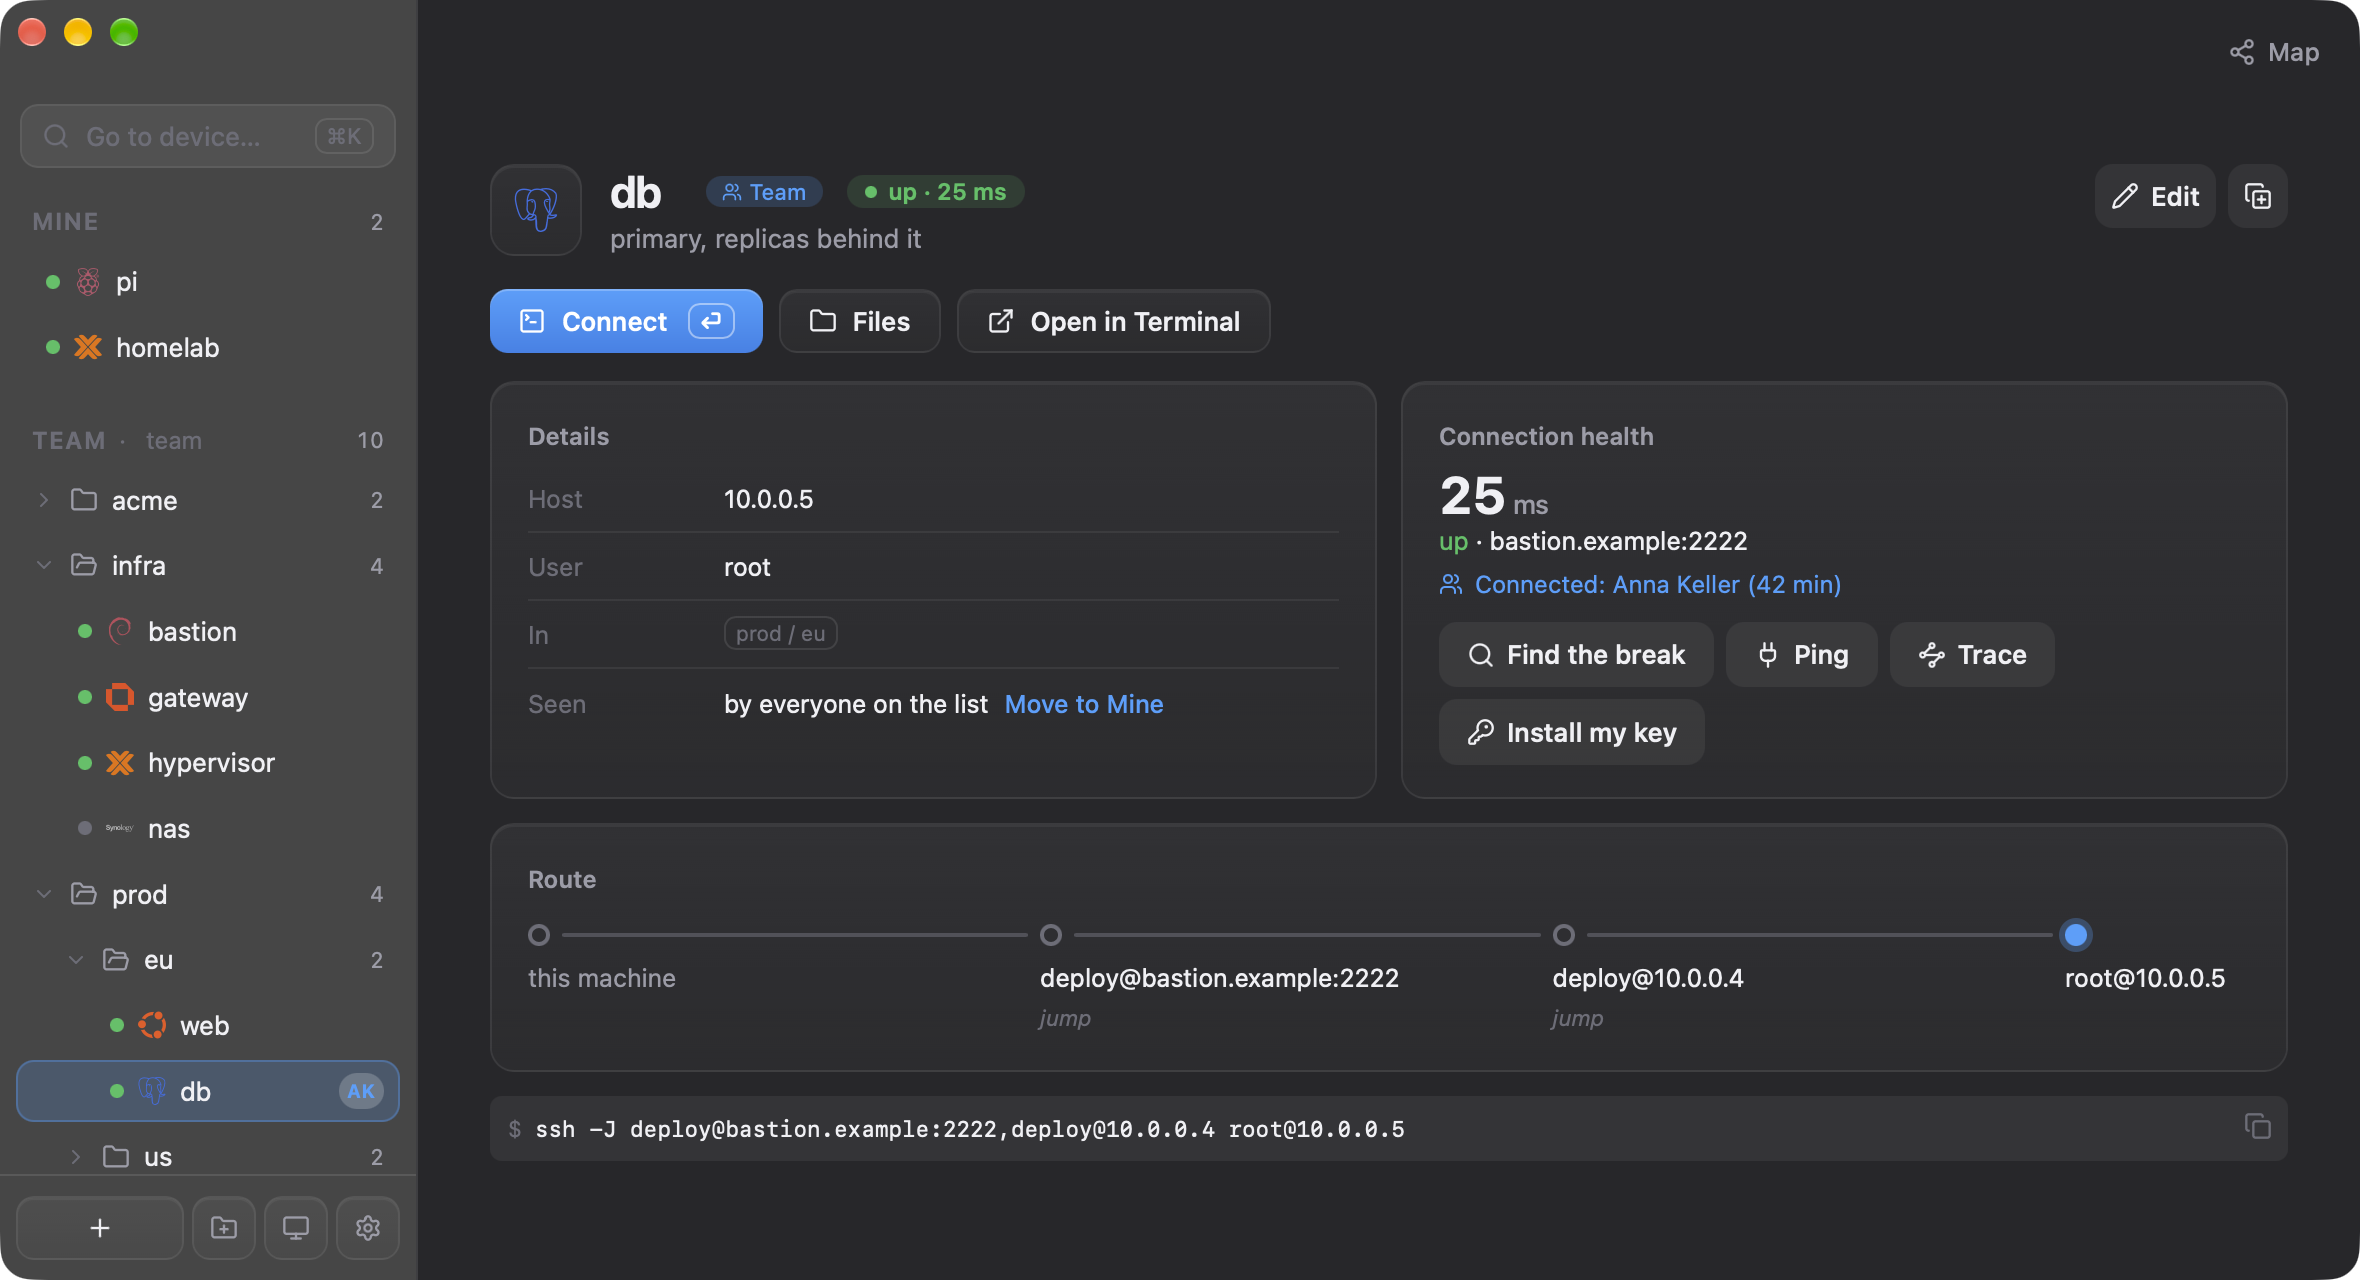
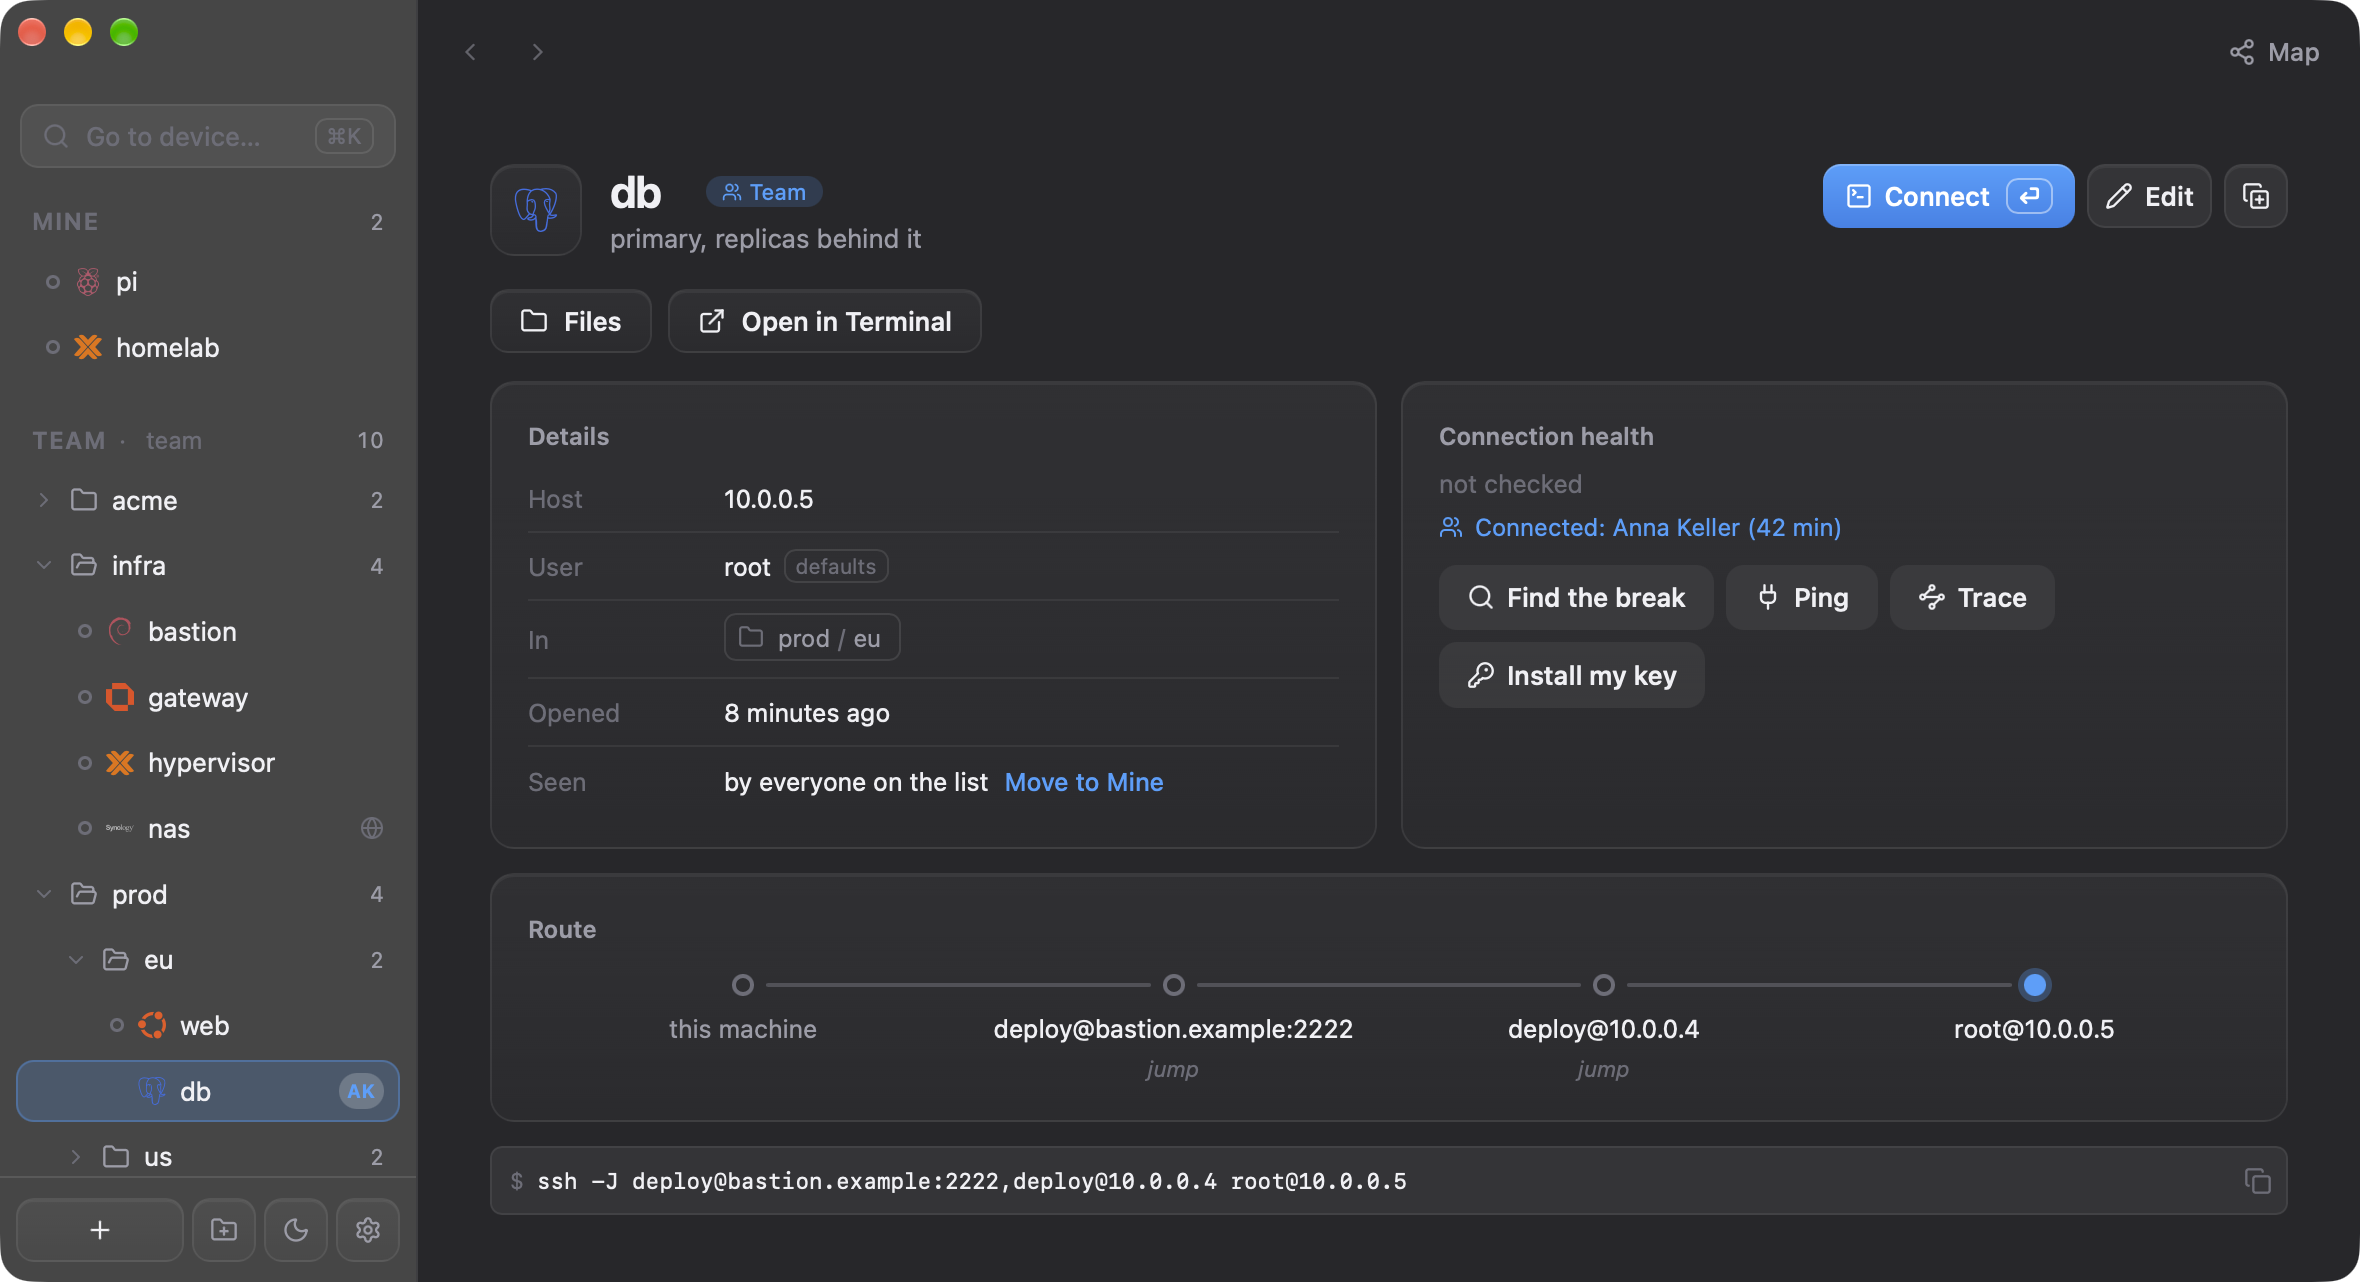
readme: shorter and current, no semicolons, and screenshots of the window as it is now, since the old ones showed Connect under the name

diff --git a/README.md b/README.md
@@ -36,22 +36,21 @@
 
 ---
 
-Your machines live in one file you can read, hand-edit and keep in a repo: hostnames,
-folders and jump chains, never a credential, so it goes on the team drive as it is. The
-window opens them as tabs under a folder tree. Your `ssh` agent and `~/.ssh/config`
-hold the rest.
+Your machines live in one TOML file you can read, hand-edit and keep in a repo:
+hostnames, folders and jump chains, never a credential. The window opens them as tabs.
+Your `ssh` agent and `~/.ssh/config` do the rest.
 
 ## Features
 
 | | |
 | --- | --- |
-| **Sessions in tabs** | Your system `ssh` on a real pty: agent, `~/.ssh/config` and host-key prompts just work. A local shell too. |
-| **Remote desktop** | RDP decoded in-app (IronRDP, pure Rust) via the graphics pipeline, H.264 on the OS decoder, files on the clipboard. VNC the same way. Or hand off to your own client. |
+| **Sessions in tabs** | Your system `ssh` on a real pty, so agent, `~/.ssh/config` and host-key prompts just work. A local shell too. |
+| **Remote desktop** | RDP and VNC decoded in-app in pure Rust, H.264 on the OS decoder. Or hand off to your own client. |
 | **Web UIs and files** | A device's admin page in a tab beside its shell. Browse, upload and edit files over `sftp`. |
-| **Jump chains** | `db → web → bastion` becomes one `ssh -J`, and "Find the break" names the hop that stopped answering. |
+| **Jump chains** | `db → web → bastion` becomes one `ssh -J`. "Find the break" names the hop that stopped answering. |
 | **Mine and Team** | Your devices beside the team's shared list, on a drive you already have. No server, no account. |
 | **Team host keys** | A first connect is checked against the key a colleague already trusted. |
-| **Broadcast and snippets** | Type into many shells at once. Snippets fill in `{host}`, ask for a `{?}` blank, and never press Enter. |
+| **Broadcast and snippets** | Type into many shells at once. Snippets fill in `{host}`, ask for `{?}`, and never press Enter. |
 | **Import** | `~/.ssh/config` or a Royal TS `.rtsz`. Passwords never come across. |
 
 ## Install
@@ -64,9 +63,7 @@ hold the rest.
 | Debian / Ubuntu | [patchbay_amd64.deb](https://github.com/pyvnoaim/patchbay/releases/latest/download/patchbay_amd64.deb) |
 | Linux, any | [patchbay_amd64.AppImage](https://github.com/pyvnoaim/patchbay/releases/latest/download/patchbay_amd64.AppImage) |
 
-Every install updates itself from then on.
-
-Or from a terminal:
+It updates itself from then on. Or from a terminal:
 
 ```sh
 # macOS, Apple Silicon
@@ -85,29 +82,29 @@ mkdir -p ~/.local/bin && curl -fsSLo ~/.local/bin/patchbay https://github.com/py
 <details>
 <summary>First launch, requirements and platform notes</summary>
 
-The app isn't notarized, so a `.dmg` from the browser is refused on first launch: open
-it once, then System Settings → Privacy & Security → Open Anyway. The `curl` line above
-skips that, because a browser marks what it downloads as quarantined and `curl` doesn't.
+**macOS.** The app isn't notarized, so a `.dmg` from the browser is refused on first
+launch. Open it once, then System Settings → Privacy & Security → Open Anyway. The
+`curl` line skips this: `curl` doesn't mark downloads as quarantined.
 
-You need an `ssh` on your PATH. On Windows that means the OpenSSH Client, which ships
-with Windows 10/11. If it's missing, enable it under Settings → Apps → Optional
-Features. Its agent is a service that is off by default, so keys with a passphrase ask
-for it on every connection until you turn it on, once, in an administrator PowerShell:
+**Windows.** You need the OpenSSH Client, which ships with Windows 10/11 (Settings →
+Apps → Optional Features if missing). Its agent is off by default, so a key with a
+passphrase asks on every connection. Turn it on once, in an administrator PowerShell:
 
 ```powershell
-Set-Service ssh-agent -StartupType Automatic; Start-Service ssh-agent; ssh-add
+Set-Service ssh-agent -StartupType Automatic
+Start-Service ssh-agent
+ssh-add
 ```
 
-The `.deb` wants Ubuntu 22.04 or newer, or anything else with `libwebkit2gtk-4.1`. The
-AppImage carries its own. "Open in Terminal" uses `$TERMINAL` if it is set, otherwise
-the first of gnome-terminal, konsole, alacritty, kitty, foot or xterm it finds.
+**Linux.** The `.deb` wants Ubuntu 22.04+ or `libwebkit2gtk-4.1`. The AppImage carries
+its own. "Open in Terminal" uses `$TERMINAL`, else the first of gnome-terminal, konsole,
+alacritty, kitty, foot or xterm.
 
 </details>
 
-Already have a list? An empty window offers the hosts it finds in `~/.ssh/config`, and
-Settings ▸ Import reads that or a Royal TS `.rtsz` document. Either way you see what it
-found with tick boxes, and nothing is written until you tick.
-
+Already have a list? An empty window offers the hosts in `~/.ssh/config`, and Settings ▸
+Import reads that or a Royal TS `.rtsz`. You tick what to take. Nothing is written
+before that.
 
 ## Config
 
@@ -136,16 +133,15 @@ desc = "main web box"
 note = "change window is Tuesday 22:00, ask ops before touching bastion"
 ```
 
-`jump` is walked until it runs out, so a chain becomes one `ssh -J` list. A loop is an
-error, not a hang. Nothing in the file is executed as written: the most it produces is
-an `ssh` command line, shown before it runs.
+A `jump` chain becomes one `ssh -J` list. A loop is an error, not a hang. Nothing in the
+file is executed as written: the most it produces is an `ssh` command line, shown before
+it runs.
 
 ## Folders and web UIs
 
-`prod/eu/web` nests in the sidebar, and `folders` is a list, so a device can sit in
-several branches. A device is reached by `ssh` (on by default), `rdp = <port>`,
-`vnc = <port>`, `telnet = <port>`, `serial = "/dev/…"` or `url`. That is what Enter and
-a double-click open.
+`prod/eu/web` nests in the sidebar. `folders` is a list, so a device can sit in several
+branches. A device opens by `ssh` (default), `rdp = <port>`, `vnc = <port>`,
+`telnet = <port>`, `serial = "/dev/…"` or `url`.
 
 ```toml
 [jack.acme-nas]
@@ -161,99 +157,84 @@ ssh  = false
 folders = ["acme/prod"]
 ```
 
-Appliances reached by IP have certificates naming something else. patchbay says which
-certificate and why, and on macOS and Windows can add it to the system trust store like
-a browser's **Always trust**. Linux has no single store the webview reads, so there a
-self-signed device is one for your browser. Plain `http` works on your own network only.
+A device reached by IP has a certificate naming something else. patchbay shows which
+and why, and on macOS and Windows can add it to the system trust store, like a browser's
+**Always trust**. Linux has no single store the webview reads, so a self-signed device
+opens in your browser there. Plain `http` works on your own network only.
 
 ## A team
 
 Put the file in a folder you already share and point Settings ▸ Team at it. Colleagues
-point at the same path. Everyone sees the same devices and folder notes, with no server
-in between, and since the file holds no credentials, sharing it shares hostnames only.
+point at the same path. No server in between, and the file holds no credentials, so
+sharing it shares hostnames only.
 
-- **Mine stays yours.** Your own devices show beside the team's as **Mine**. **Share
-  with Team** (on the page or right-click) moves one across, undoably. `[settings]` and
-  colours stay in your file. `[defaults]` goes with the list, so a `user` or `key` there
-  is a _shared_ account (`~` expands per machine). Personal accounts go in
-  `~/.ssh/config`.
-- **Who can edit** is whoever can write the file, and they can repoint `prod-db`: the
-  same trust a shared Royal document extends, minus the passwords. A save over someone
-  else's newer change is refused once and the list reloads. A share that is away keeps
-  the list on screen and refuses saves until it's back.
-- **Synced folders** (OneDrive, Dropbox) suit a team that mostly reads: two saves in the
-  same minute make a conflicted copy, which the window names and never merges. On
-  Windows a save can be refused while a sync client holds the file. The next one lands.
+- **Mine stays yours.** Your devices show beside the team's as **Mine**. **Share with
+  Team** moves one across, undoably. `[settings]` and colours stay in your file.
+  `[defaults]` goes with the list, so a `user` or `key` there is a _shared_ account.
+  Personal accounts go in `~/.ssh/config`.
+- **Who can edit** is whoever can write the file. A save over a colleague's newer change
+  is refused once and the list reloads. A share that is away keeps the list on screen
+  and refuses saves until it's back.
+- **Who is on** a device shows on its page, with no server: a small file per copy beside
+  the shared list.
+- **Synced folders** (OneDrive, Dropbox) suit a team that mostly reads. Two saves in the
+  same minute make a conflicted copy, which the window names and never merges.
 
 ## Files
 
 **Files** on a device's page, or right-click ▸ **Browse files**: the system `sftp` over
-your agent, config and jump chain. Double-click a folder to enter it or a file to
-download it, drop files to upload, right-click to rename, delete, or **Edit here** (saving
-puts it straight back). Listings share one ssh session, so only the first authenticates.
-Windows' ssh can't share, so there every listing authenticates and a password-only
-device can't be browsed.
+your agent, config and jump chain. Double-click to enter a folder or download a file,
+drop files to upload, right-click to rename, delete or **Edit here** (saving puts it
+back). Listings share one ssh session, so only the first authenticates. Windows' ssh
+can't share, so there a password-only device can't be browsed.
 
 ## The rest of your machine
 
-- **`ssh web-01` anywhere.** Settings ▸ Devices writes your devices, or the team's, to
-  `~/.ssh/patchbay.conf` with one `Include` line in `~/.ssh/config`, jump chains as
-  `ProxyJump`, so `scp`, `rsync`, Ansible and VS Code Remote work too. A name you
-  already define is left alone. Turning it off removes the line and the file.
+- **`ssh web-01` anywhere.** Settings ▸ Devices writes your devices to
+  `~/.ssh/patchbay.conf` with one `Include` line in `~/.ssh/config`, so `scp`, `rsync`,
+  Ansible and VS Code Remote work too. A name you already define is left alone.
 - **`patchbay://web-01`** in a runbook or alert opens that device. A link carries a
-  _name_ resolved against your config, never an address.
-- **Open in Terminal**, on a device's page or right-click, hands the session to your own
-  terminal.
+  _name_, never an address.
+- **Open in Terminal** hands the session to your own terminal.
 
 ## In the window
 
 - **Map** draws a folder by route, so a bastion and everything behind it sit together.
-  A bastion that is down says so once.
-- **Marks**: ⌘-click (Ctrl-click elsewhere) and shift-click pick several devices to move,
-  delete or **broadcast** to: every ssh mark a pane in one tab, one keystroke to all.
-- **A local shell**: "local" in ⌘K opens one in a tab, ⌘D beside the session in front.
-- **Background tabs** dot on new output. A drop or bell elsewhere says so, with a button
-  to go there.
-- **When**, on a device's page: how long your session has been open, or when you last
-  opened it. On a shared list, which colleague is on and for how long.
-- **Quitting** with sessions or tunnels open names each one first. Next launch offers the
-  tabs back, splits and forwards included, or Settings ▸ Devices reopens them always.
+- **Marks**: ⌘-click (Ctrl-click elsewhere) and shift-click pick several devices to
+  move, delete or **broadcast** to, every shell a pane in one tab.
+- **A local shell**: "local" in ⌘K, or ⌘D beside the session in front.
+- **Background tabs** dot on new output. A drop or bell elsewhere says so.
+- **Quitting** names open sessions and tunnels first. Next launch offers the tabs back,
+  splits and forwards included.
 - **A dropped session** keeps its scrollback under **Reconnect** and **Wait and retry**.
-- **Find**: ⌘F searches a terminal's scrollback. Off macOS every window chord is
-  Ctrl+Shift, because plain Ctrl belongs to the shell.
+- **Find**: ⌘F searches scrollback. Off macOS every window chord is Ctrl+Shift, because
+  plain Ctrl belongs to the shell.
 - **Session logs**, off by default, go to `logs/` beside the config.
-- **Updates** are checked at launch, downloaded when you say, and installed on a second
-  click of `Restart`, since it takes your sessions with it.
+- **Updates** download when you say and install on **Restart**.
 
 ## What it deliberately isn't
 
-- **A credential store.** Credentials live in your ssh agent and keys. Nothing here to
-  leak or sync. A remote-desktop password you tick Remember goes to the OS keychain.
-- **An ssh implementation.** A session is `/usr/bin/ssh` on a pty. Files are the `sftp`
-  binary. A web UI is the device's own page in a webview.
-- **FreeRDP.** RDP is IronRDP and VNC is vnc-rs, both pure Rust onto a canvas, with
-  H.264 on the system decoder (VideoToolbox, Media Foundation): no graphics toolkit, no
-  codec library. "Remote desktop in system client" hands a `.rdp` to mstsc, Windows App
-  or xfreerdp instead. VNC signs in with a VNC password or none. A server wanting Apple's
-  sign-in opens in the system's `vnc://` viewer. A VNC screen is never resized from here.
-
-patchbay knows where your machines are and what to run. The running is someone else's
-job.
+- **A credential store.** Credentials live in your ssh agent and keys. A remote-desktop
+  password you tick Remember goes to the OS keychain, never a file.
+- **An ssh implementation.** A session is `/usr/bin/ssh` on a pty, files are `sftp`, a
+  web UI is the device's own page.
+- **FreeRDP.** RDP is IronRDP and VNC is vnc-rs, both pure Rust, H.264 on the system
+  decoder. No graphics toolkit, no codec library. "Remote desktop in system client"
+  hands a `.rdp` to mstsc, Windows App or xfreerdp instead.
 
 ## Licence
 
-**Free for you, paid for your team.** Every protocol and tab is free for one person, at
-work or anywhere, on any number of machines. A team sharing a list will need a company
-licence: **€249 a year, any team size**. Until it goes on sale, free too. Terms in
-[LICENSE](LICENSE).
+**Free for you, paid for your team.** Everything is free for one person, at work or
+anywhere, on any number of machines. A team sharing a list will need a company licence:
+**€249 a year, any team size**. Free until it goes on sale. Terms in [LICENSE](LICENSE).
 
 No account, and no outbound request except the update check (and Bitwarden's own, if
 you turn it on).
 
-- **What counts as a team?** A shared list. Your own list, on all your machines, for any
-  client, is one person.
-- **What if we stop paying?** The shared list stops opening until you renew. Everyone's
-  own devices keep working.
+- **What counts as a team?** A shared list. Your own list on all your machines is one
+  person.
+- **What if we stop paying?** The shared list stops opening. Everyone's own devices keep
+  working.
 - **What about the copy we have now?** 0.1.58 and earlier stay under [PolyForm
   Perimeter](https://polyformproject.org/licenses/perimeter/1.0.1), free for anyone.
 - **Is this open source?** The source is public to read and build, but not OSI open
@@ -261,5 +242,5 @@ you turn it on).
 
 ## Development
 
-`npm run dev` needs Node 22+ and Rust. It runs against `dev/patchbay.toml`, never your
+`npm run dev` needs Node 22+ and Rust and runs against `dev/patchbay.toml`, never your
 own config. [CONTRIBUTING.md](CONTRIBUTING.md) has the rest.
